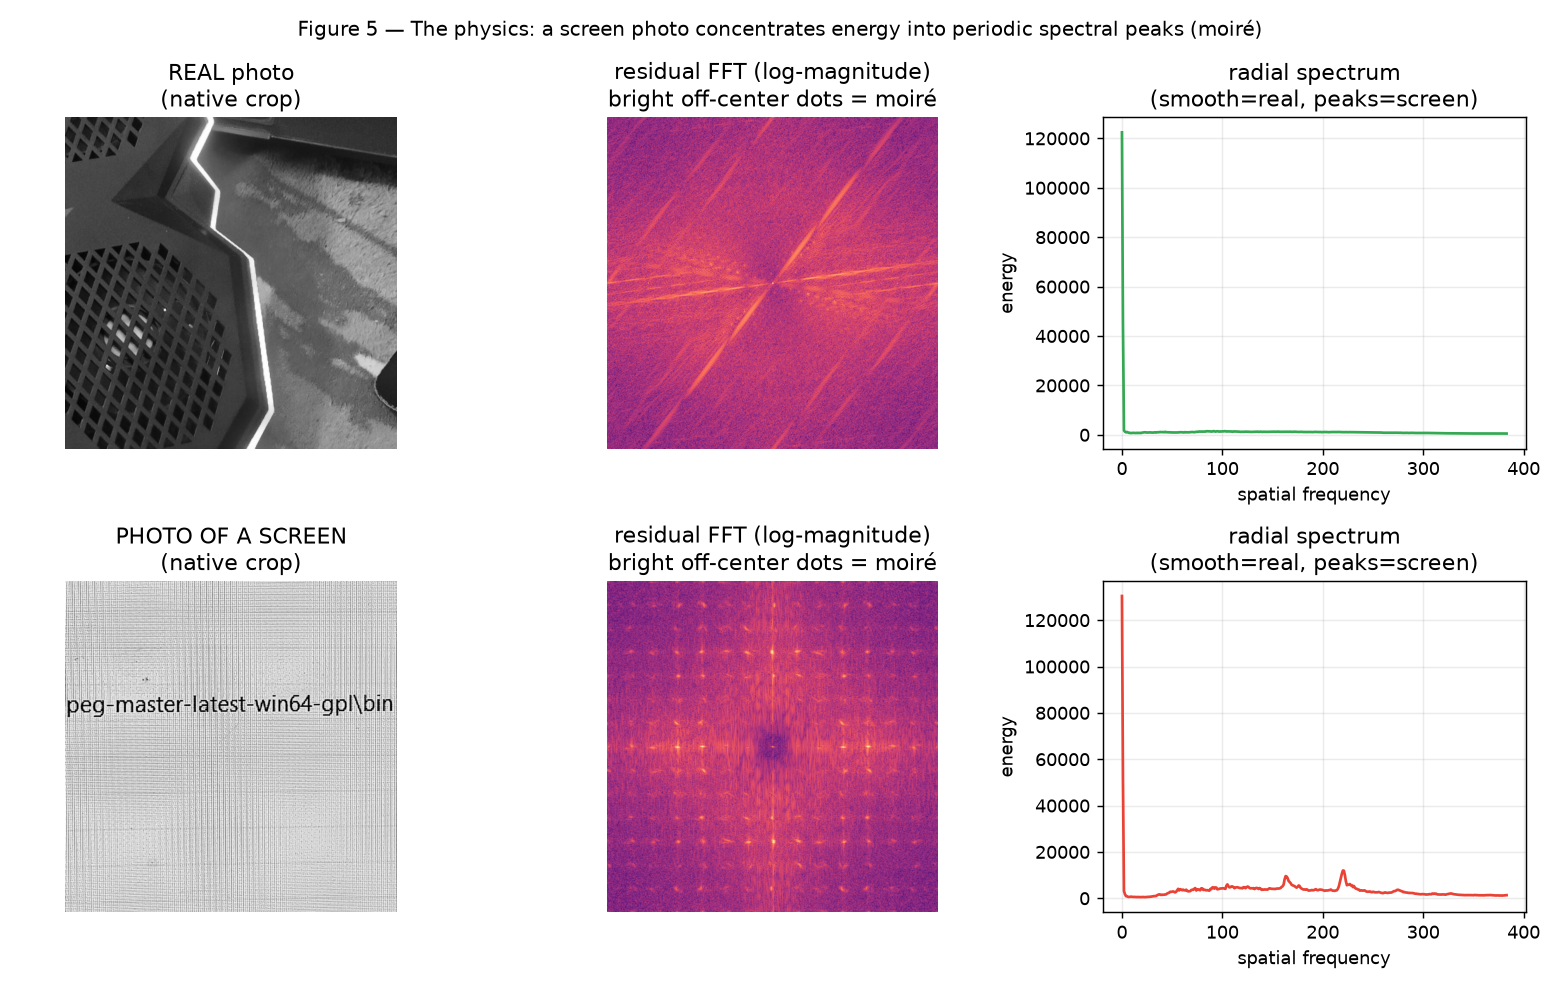
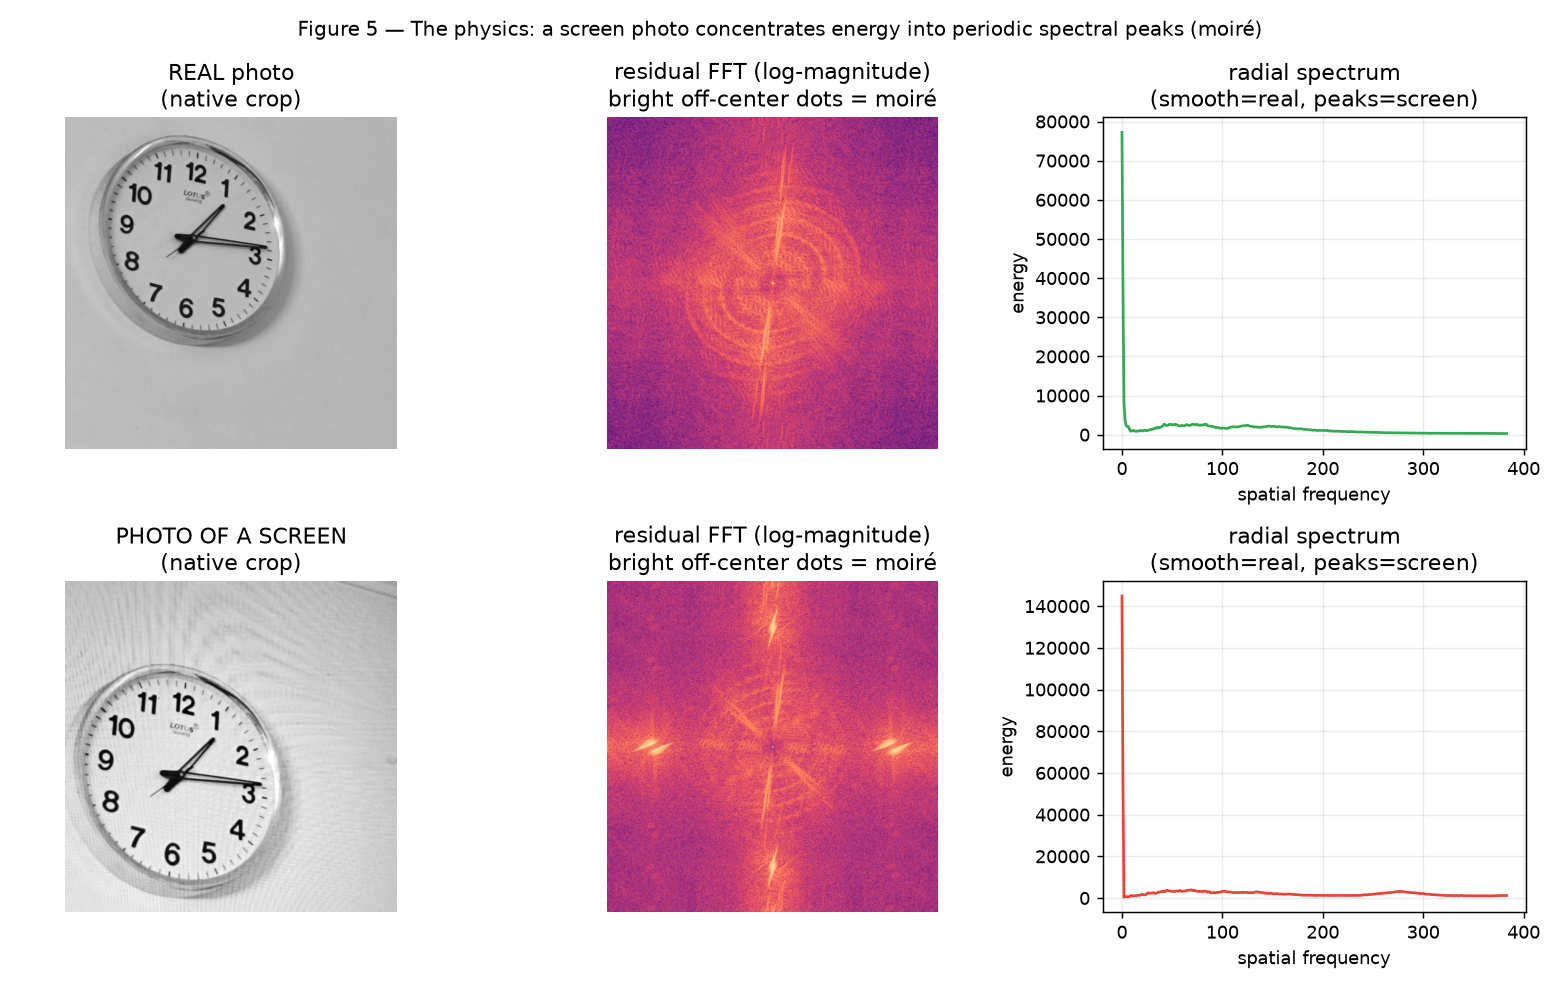
Add validation dataset and evaluation script for blind testing; update README and figures

diff --git a/src/eval_validation.py b/src/eval_validation.py
@@ -1,0 +1,54 @@
+"""Evaluate predict.py on the held-out validation set (brand-new images).
+
+Run:
+    python src/eval_validation.py
+
+dataset/validation/ holds same-scene pairs shot AFTER the model was frozen:
+    real/test_NN.jpeg   <->   screen/fake_NN.jpeg   (same scene, real vs off-screen)
+None of these were used in training or cross-validation, so this is a genuine
+blind test -- handy to run live in an interview.
+"""
+
+import sys
+from pathlib import Path
+
+sys.path.insert(0, str(Path(__file__).resolve().parent.parent))  # repo root on path
+import predict as P
+
+V = Path(__file__).resolve().parent.parent / "dataset" / "validation"
+
+
+def pid(p):  # the NN in test_NN / fake_NN
+    return p.stem.split("_")[-1]
+
+
+def main():
+    if not (V / "real").is_dir():
+        print(f"No validation set at {V}")
+        sys.exit(1)
+
+    reals = {pid(p): p for p in sorted((V / "real").glob("*"))}
+    screens = {pid(p): p for p in sorted((V / "screen").glob("*"))}
+
+    print(f"{'pair':>4}  {'REAL (test_)':>16}  {'SCREEN (fake_)':>16}")
+    print("-" * 44)
+    rc = sc = rt = st = 0
+    for n in sorted(set(reals) | set(screens)):
+        rs = P.predict(str(reals[n])) if n in reals else None
+        ss = P.predict(str(screens[n])) if n in screens else None
+        if rs is not None:
+            rt += 1; rc += rs < 0.5
+        if ss is not None:
+            st += 1; sc += ss >= 0.5
+        rtxt = (f"{rs:.3f} {'ok' if rs < 0.5 else 'MISS'}") if rs is not None else "--"
+        stxt = (f"{ss:.3f} {'ok' if ss >= 0.5 else 'MISS'}") if ss is not None else "--"
+        print(f"{n:>4}  {rtxt:>16}  {stxt:>16}")
+
+    print("-" * 44)
+    tot, cor = rt + st, rc + sc
+    print(f"real   {rc}/{rt}   screen {sc}/{st}")
+    print(f"BLIND-TEST ACCURACY: {cor}/{tot} = {cor / tot * 100:.1f}%")
+
+
+if __name__ == "__main__":
+    main()

diff --git a/src/make_figures.py b/src/make_figures.py
@@ -159,23 +159,30 @@ def fig_spectrum(real_path, screen_path):
     fig.tight_layout(); fig.savefig(FIGS / "fig5_spectrum_moire.png"); plt.close(fig)
 
 
-def fig_examples(paths, y):
-    # pick a few of each class
-    reals = [p for p, l in zip(paths, y) if l == 0 and "IMG_2026" in p.name][:3]
-    screens = [p for p, l in zip(paths, y) if l == 1 and "IMG_2026" in p.name][:3]
-    picks = reals + screens
-    fig, axes = plt.subplots(2, 3, figsize=(11, 7.4))
-    for ax, p in zip(axes.ravel(), picks):
-        from PIL import Image
-        im = Image.open(p).convert("RGB"); im.thumbnail((360, 360))
-        s = P.predict(str(p))
-        verdict = "SCREEN" if s >= 0.5 else "REAL"
-        col = SCREEN if s >= 0.5 else REAL
-        ax.imshow(im); ax.axis("off")
-        ax.set_title(f"score={s:.2f} -> {verdict}", color=col, fontsize=11)
-    fig.suptitle("Figure 6 — Example predictions (score = P(photo-of-a-screen))",
-                 fontsize=12)
-    fig.tight_layout(); fig.savefig(FIGS / "fig6_examples.png"); plt.close(fig)
+def fig_paired_validation(pairs=("01", "03", "06", "11")):
+    """Same scene shot two ways: a real photo vs a photo of that scene on a screen.
+
+    Uses the brand-new validation set (dataset/validation/, shot AFTER the model
+    was frozen) so it doubles as a blind generalization check. test_NN <-> fake_NN
+    are the same scene."""
+    from PIL import Image
+    V = ROOT / "dataset" / "validation"
+    n = len(pairs)
+    fig, axes = plt.subplots(2, n, figsize=(3.1 * n, 6.6))
+    for j, pid in enumerate(pairs):
+        rp = next((V / "real").glob(f"test_{pid}.*"))
+        sp = next((V / "screen").glob(f"fake_{pid}.*"))
+        for row, (p, kind) in enumerate([(rp, "REAL photo"), (sp, "PHOTO OF A SCREEN")]):
+            im = Image.open(p).convert("RGB"); im.thumbnail((420, 420))
+            s = P.predict(str(p))
+            ax = axes[row, j]; ax.imshow(im); ax.axis("off")
+            col = SCREEN if s >= 0.5 else REAL
+            ax.set_title(f"{kind}\nscore={s:.2f}", color=col, fontsize=10)
+    fig.suptitle("Figure 6 — Same scene, real vs photographed off a screen "
+                 "(brand-new images, never trained on)\n"
+                 "top row = real (score -> 0)   ·   bottom row = recapture (score -> 1)",
+                 fontsize=11)
+    fig.tight_layout(); fig.savefig(FIGS / "fig6_paired_validation.png"); plt.close(fig)
 
 
 def main():
@@ -194,8 +201,17 @@ def main():
     # representative crisp screenshot + real for the physics figure
     screen = next(p for p in paths_k if "IMG_2026" in p.name and p.parent.name == "screen")
     real = next(p for p in paths_k if "IMG_2026" in p.name and p.parent.name == "real")
-    fig_spectrum(real, screen)
-    fig_examples(paths_k, yk)
+    # Prefer a SAME-SCENE pair for the physics figure so real-vs-recapture is the
+    # only variable (the clock pair: smooth wall vs strong visible moiré).
+    V = ROOT / "dataset" / "validation"
+    pair_real = next((V / "real").glob("test_01.*"), None) if (V / "real").is_dir() else None
+    pair_screen = next((V / "screen").glob("fake_01.*"), None) if (V / "screen").is_dir() else None
+    fig_spectrum(pair_real or real, pair_screen or screen)
+
+    if (V / "real").is_dir():
+        fig_paired_validation()
+    else:
+        print("  (skipping fig6: dataset/validation/ not present)")
     print(f"done -> {FIGS}")
     for f in sorted(FIGS.glob("*.png")):
         print("  ", f.name)

diff --git a/README.md b/README.md
@@ -16,6 +16,7 @@ python predict.py image.jpg      # -> e.g. 0.0127   (real)   or   1.0000 (screen
 | Metric | Value |
 |---|---|
 | Accuracy (5-fold CV, shipped model) | **96.9%** / balanced **0.963 ± 0.017** |
+| Blind test (25 brand-new images, post-freeze) | **25/25 = 100%** |
 | ROC-AUC | **0.99** (5-fold) |
 | Held-out screen recall | **100%** (29/29) |
 | Latency | **~494 ms/image**, laptop **CPU only** |
@@ -39,11 +40,12 @@ cannot. We measure three families of them, all interpretable:
 3. **JPEG double-compression blockiness** — a screenshot is JPEG-encoded once by
    the source device and again by the camera, strengthening 8×8 block-edge jumps.
 
-**The physics, made visible** — the FFT of a screen crop is a regular lattice of
-bright dots (the pixel grid); a real crop is smooth. This single signal does most
-of the work:
+**The physics, made visible** — the *same clock*, shot for real vs photographed off
+a screen. In the screen version you can see the moiré ripples on the wall directly,
+and its residual FFT shows bright off-center peaks; the real crop's spectrum has no
+such peaks. This single signal does most of the work:
 
-![Figure 5 — residual FFT of a real vs a screen crop: the screen concentrates energy into periodic moiré peaks](figures/fig5_spectrum_moire.png)
+![Figure 5 — same scene: residual FFT of the real clock (no peaks) vs the screen clock (bright moiré peaks)](figures/fig5_spectrum_moire.png)
 
 **Which fingerprints actually separate the classes** (single-feature ROC-AUC):
 
@@ -95,9 +97,17 @@ and don't match the grader's direct-camera scenario, so they're excluded.
 This certifies no *image-level* overfitting; robustness to unseen capture *devices*
 is the honest remaining limit (see [`note.md`](note.md)).
 
-### Example predictions
+### Blind validation on brand-new images
 
-![Figure 6 — example predictions: real gadgets score low, photos of monitors score high](figures/fig6_examples.png)
+The strongest test: **25 images shot *after* the model was frozen** (a separate
+session, never in training or cross-validation), as same-scene pairs — each scene
+photographed for real *and* photographed off a screen.
+
+**Result: 25/25 correct (100%)** — every real scored ≤ 0.07, every screen ≥ 0.89
+(wide margins, not lucky calls). This is stronger evidence than cross-validation
+because the images are temporally and independently held out.
+
+![Figure 6 — same scene shot as a real photo (top, score→0) vs off a screen (bottom, score→1); 25/25 on brand-new images](figures/fig6_paired_validation.png)
 
 ## Run it
 
@@ -109,6 +119,7 @@ python predict.py image.jpg        # the graded interface -> one number 0..1
 python src/train.py                # retrain + compare 3 models (--refresh re-extracts)
 python src/check_data.py           # dataset + confound checks
 python src/validate.py             # reproducible no-overfitting proof
+python src/eval_validation.py      # blind test on brand-new held-out images
 python src/benchmark.py            # latency + cost
 python src/make_figures.py         # regenerate figures/ (needs matplotlib)
 

diff --git a/note.md b/note.md
@@ -56,6 +56,11 @@ linearly separable, so the simplest model won.
 This certifies no *image-level* overfitting; robustness to unseen capture
 *devices* is the honest remaining limit (see "what I'd improve").
 
+**Blind test — 25 brand-new images shot after freezing the model.** A final check
+on 25 fresh same-scene pairs (each scene photographed for real and off a screen),
+none in training/CV: **25/25 correct**, every real ≤ 0.07 and every screen ≥ 0.89.
+A temporally + independently held-out result — stronger than cross-validation.
+
 ## The two required numbers
 
 - **Latency:** ~**494 ms / image** (median) on a Windows laptop, **CPU only, no GPU**.